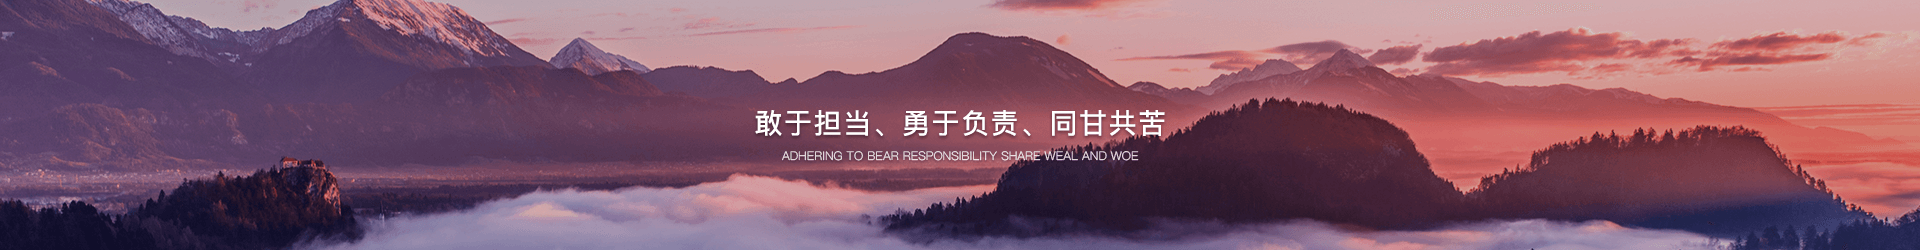
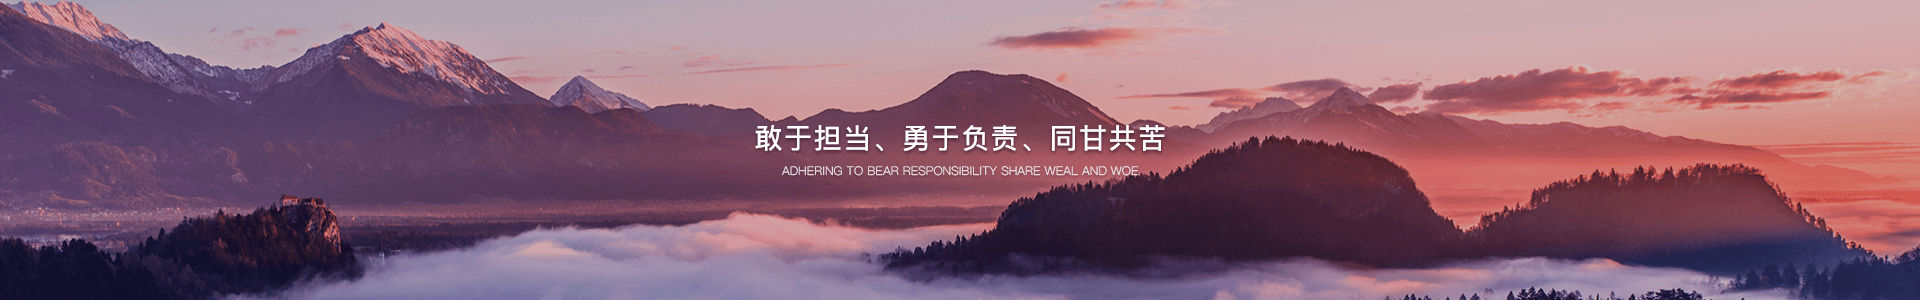
git-svn-id: https://39.108.144.9:8443/svn/nongkenweb@20 085fee2a-fcf7-b84f-be85-21284b92a9ce

diff --git a/nongken001(08.14)/index.html b/nongken001(08.14)/index.html
@@ -88,42 +88,42 @@
                     <div class="fb-figureCarousel-boxOverflow" style="width: 1150px; height: 220px; padding-bottom: 40px;">
                         <div class="fb-figureCarousel-box fb-position-relative" id="index-new" >
                             <div class="fb-figureCarousel-item fb-float-left" >
-                                <a href="news-detail.html"><img src="images/news01.jpg" alt="" >
+                                <a href="news.html"><img src="images/news01.jpg" alt="" >
                                     <p>集团要闻</p>
                                 </a>
                             </div>
                             <div class="fb-figureCarousel-item fb-float-left">
-                                <a href="news-detail.html"><img src="images/news02.jpg" alt="">
+                                <a href="news.html"><img src="images/news02.jpg" alt="">
                                     <p>垦区与产业集团</p>
                                 </a>
                             </div>
                             <div class="fb-figureCarousel-item fb-float-left">
-                                <a href="news-detail.html"><img src="images/news03.jpg" alt="">
+                                <a href="news.html"><img src="images/news03.jpg" alt="">
                                     <p>现代农业发展</p>
                                 </a>
                             </div>
                             <div class="fb-figureCarousel-item fb-float-left">
-                                <a href="news-detail.html"><img src="images/news09.jpg" alt="">
+                                <a href="news.html"><img src="images/news09.jpg" alt="">
                                     <p>改革与创新</p>
                                 </a>
                             </div>
                             <div class="fb-figureCarousel-item fb-float-left">
-                                <a href="news-detail.html"><img src="images/news01.jpg" alt="">
+                                <a href="news.html"><img src="images/news01.jpg" alt="">
                                     <p>集团要闻</p>
                                 </a>
                             </div>
                             <div class="fb-figureCarousel-item fb-float-left">
-                                <a href="news-detail.html"><img src="images/news02.jpg" alt="">
+                                <a href="news.html"><img src="images/news02.jpg" alt="">
                                     <p>垦区与产业集团</p>
                                 </a>
                             </div>
                             <div class="fb-figureCarousel-item fb-float-left">
-                                <a href="news-detail.html"><img src="images/news03.jpg" alt="">
+                                <a href="news.html"><img src="images/news03.jpg" alt="">
                                     <p>现代农业发展</p>
                                 </a>
                             </div>
                             <div class="fb-figureCarousel-item fb-float-left">
-                                <a href="news-detail.html"><img src="images/news09.jpg" alt="">
+                                <a href="news.html"><img src="images/news09.jpg" alt="">
                                     <p>改革与创新</p>
                                 </a>
                             </div>
@@ -219,7 +219,7 @@
                  <div class="title">
                         <p>名优特产品<span>  PRODUCT</span></p>
                 </div>  
-                <div class="fb-seamlessScrolling">
+                <div class="fb-seamlessScrolling fb-size">
                     <div class="fb-seamlessScrolling-overflow fb-position-relative">
                         <div class="fb-seamlessScrolling-item fb-float-left"><img src="images/news05.png" alt=""></div>
                         <div class="fb-seamlessScrolling-item fb-float-left"><img src="images/news10.jpg" alt=""></div>
@@ -246,22 +246,22 @@
     <div class="footer min-w1200">
         <div class="w1200 fb-center">
             <div class="flogo fb-inlineBlock">
-                <img src="images/flogo.png" alt="">
+               <div class="bg-logo"></div>
             </div>
             <div class="footerBox fb-inlineBlock">
+                <dl class="footerHref">
+                    <dd class="fb-float-left"><a href="">驻穗直属各企业</a></dd>
+                    <dd class="fb-float-left">|</dd>
+                    <dd class="fb-float-left"><a href="">二级集团公司</a></dd>
+                    <dd class="fb-float-left">|</dd>
+                    <dd class="fb-float-left"><a href="">兄弟垦区</a></dd>
+                </dl>
                 <dl class="footerHref">
                     <dd class="fb-float-left"><a href="">联系我们</a></dd>
                     <dd class="fb-float-left">|</dd>
                     <dd class="fb-float-left"><a href="">广东农垦站群</a></dd>
                     <dd class="fb-float-left">|</dd>
                     <dd class="fb-float-left"><a href="">网站地图</a></dd>
-                </dl>
-                <dl class="footerHref">
-                    <dd class="fb-float-left"><a href="">兄弟垦区</a></dd>
-                    <dd class="fb-float-left">|</dd>
-                    <dd class="fb-float-left"><a href="">二级集团公司</a></dd>
-                    <dd class="fb-float-left">|</dd>
-                    <dd class="fb-float-left"><a href="">驻穗直属各企业</a></dd>
                 </dl>
                 <dl class="footerHref">
                 	    <dd class="fb-float-left">版权所有</dd>

diff --git a/nongken001(08.14)/css/css.css b/nongken001(08.14)/css/css.css
@@ -8,23 +8,26 @@
 .header .nav{line-height: 100px;}
 .header .nav li{margin:0 20px;font-size: 18px;}
 .header .nav li a{color: #555555;}
-.header .nav li.active a{color: #3c824e;}
-.header .nav li:hover a{color: #3c824e;}
+.header .nav li.active a{color: #10ac5f;}
+.header .nav li:hover a{color: #10ac5f;}
 
 .footer{height: 180px;background: #334e64;}
 .footer .flogo{width: 60px;height: 70px;vertical-align: top;margin-right: 100px;padding-top: 55px;}
+.bg-logo{background: url(../images/flogo.png);width: 61px;height: 69px;}
+.bg-logo:hover{background: url(../images/flogo2.png);}
 .footer .footerBox{vertical-align: top;padding-top: 30px;}
-.footer .footerBox a:hover{color: #3c824e}
+.footer .footerBox a:hover{color: #10ac5f}
 
-.footer .footerHref{width: 450px; height: 40px;}
+.footer .footerHref{width: 500px; height: 40px;}
 .footer .footerHref dd{color: #fff;font-size: 16px;margin:0 10px;line-height: 40px;}
 .footer .footerHref dd a{color: #fff;}
+.footer .footerHref dd:nth-of-type(1){width: 112px;}
 .footer  .copy{color: #fff;font-size: 16px;margin:0 10px;line-height: 40px;}
 
 .title{padding: 25px 0;}
 .title p{font-size: 26px;color: #333333;}
 .title span{font-size: 16px;color: #999999;}
-.c-title{padding: 10px 0 10px 40px;border-bottom: 1px solid #3c824e;}
+.c-title{padding: 10px 0 10px 40px;border-bottom: 1px solid #10ac5f;}
 .c-title p{font-size: 18px;color: #333333;}
 /*.c-title span{font-size: 16px;color: #999999;}*/
 /*首页*/
@@ -56,12 +59,12 @@
 .news-a .news-a-con .test .test-con{font-size: 16px;color: #999999;line-height: 25px;height: 75px;overflow: hidden;}
 .news-a .news-a-button{text-align: center;}
 .news-a .news-a-button .news-a-button-item{width:16px;height: 16px;background: #dddddd;margin:0 4px;cursor: pointer;}
-.news-a .news-a-button .news-a-button-item.active{background: #3c824e;}
+.news-a .news-a-button .news-a-button-item.active{background: #10ac5f;}
 
 .news-b{width: 580px;height: 410px;background: #fafafa;}
 .news-b .news-b-tab{padding: 40px 40px 0 40px;text-align: center;}
 .news-b .news-b-tab .news-tab-item{width: 124px;height: 32px;font-size: 16px;color: #999999;line-height: 32px;cursor: pointer;position: relative;}
-.news-b .news-b-tab .news-tab-item.active{background: #3c824e;color: #fff;}
+.news-b .news-b-tab .news-tab-item.active{background: #10ac5f;color: #fff;}
 .news-b .news-b-tab .news-tab-item.active:after{content: "";position: absolute;width: 16px;height: 8px;background: url("../images/tag.png") no-repeat center;bottom:-8px;left:50%;margin-left: -8px;}
 .news-b .news-b-con{padding: 0 40px 0 40px}
 .news-b .news-b-item{display: none;}
@@ -75,7 +78,7 @@
 .news-b .news-b-list a{color: #555555;display: block;}
 .news-b .news-b-list li:hover a{color: #999999;}
 .news-b .news-b-con .more{text-align: right;}
-.news-b .news-b-con .more a{color: #3c824e;font-size: 16px;}
+.news-b .news-b-con .more a{color: #10ac5f;font-size: 16px;}
 .news-b .news-b-con .more a:hover{text-decoration: underline;}
 
 /*about*/
@@ -87,6 +90,7 @@
 
 /*宣传大图*/
 .fb-seamlessScrolling{margin:0 0 60px 0;}
+
 
 /*新闻详情*/
 .news-detail{padding: 40px 0;}
@@ -137,11 +141,6 @@
 .interval{ width: 100%;height: 25px; background: #3c824e;  }
 .fb-seamlessScrolling .fb-seamlessScrolling-item{}
 .photo_bg{ width: 100%; background: #d3d6d2; height: 250px;  }
-.photoShow{ width: 1200px; margin: 0 auto; }
-#link li{  width: 200px; text-align: center; float: left;}
+.photoShow{ width: 1300px; margin: 0 auto; }
+.fb-size{width: 1300px !important;}
 
-#link{ width: 1200px; overflow: hidden; margin-top: 15px; margin: 0 auto;color: #FFF; font-size: 15px;text-align: center;}
-#link a{color: #FFF; margin:0 auto;}
-#link a:hover{color: #3c824e}
-.link-2{margin:30px 200px;}
-.link-2 li{ width: 240px; margin-left: 50px; height: 20px; margin-bottom: 5px;float: left;}

diff --git a/nongken001(08.14)/news.html b/nongken001(08.14)/news.html
@@ -295,18 +295,18 @@
             </div>
             <div class="footerBox fb-inlineBlock">
                 <dl class="footerHref">
+                    <dd class="fb-float-left"><a href="">驻穗直属各企业</a></dd>
+                    <dd class="fb-float-left">|</dd>
+                    <dd class="fb-float-left"><a href="">二级集团公司</a></dd>
+                    <dd class="fb-float-left">|</dd>
+                    <dd class="fb-float-left"><a href="">兄弟垦区</a></dd>
+                </dl>
+                <dl class="footerHref">
                     <dd class="fb-float-left"><a href="">联系我们</a></dd>
                     <dd class="fb-float-left">|</dd>
                     <dd class="fb-float-left"><a href="">广东农垦站群</a></dd>
                     <dd class="fb-float-left">|</dd>
                     <dd class="fb-float-left"><a href="">网站地图</a></dd>
-                </dl>
-                <dl class="footerHref">
-                    <dd class="fb-float-left"><a href="">兄弟垦区</a></dd>
-                    <dd class="fb-float-left">|</dd>
-                    <dd class="fb-float-left"><a href="">二级集团公司</a></dd>
-                    <dd class="fb-float-left">|</dd>
-                    <dd class="fb-float-left"><a href="">驻穗直属各企业</a></dd>
                 </dl>
                 <dl class="footerHref">
                         <dd class="fb-float-left">版权所有</dd>

diff --git a/nongken001(08.14)/about.html b/nongken001(08.14)/about.html
@@ -206,18 +206,18 @@
             </div>
            <div class="footerBox fb-inlineBlock">
                 <dl class="footerHref">
+                    <dd class="fb-float-left"><a href="">驻穗直属各企业</a></dd>
+                    <dd class="fb-float-left">|</dd>
+                    <dd class="fb-float-left"><a href="">二级集团公司</a></dd>
+                    <dd class="fb-float-left">|</dd>
+                    <dd class="fb-float-left"><a href="">兄弟垦区</a></dd>
+                </dl>
+                <dl class="footerHref">
                     <dd class="fb-float-left"><a href="">联系我们</a></dd>
                     <dd class="fb-float-left">|</dd>
                     <dd class="fb-float-left"><a href="">广东农垦站群</a></dd>
                     <dd class="fb-float-left">|</dd>
                     <dd class="fb-float-left"><a href="">网站地图</a></dd>
-                </dl>
-                <dl class="footerHref">
-                    <dd class="fb-float-left"><a href="">兄弟垦区</a></dd>
-                    <dd class="fb-float-left">|</dd>
-                    <dd class="fb-float-left"><a href="">二级集团公司</a></dd>
-                    <dd class="fb-float-left">|</dd>
-                    <dd class="fb-float-left"><a href="">驻穗直属各企业</a></dd>
                 </dl>
                 <dl class="footerHref">
                         <dd class="fb-float-left">版权所有</dd>

diff --git a/nongken001(08.14)/news-detail.html b/nongken001(08.14)/news-detail.html
@@ -97,18 +97,18 @@
             </div>
             <div class="footerBox fb-inlineBlock">
                 <dl class="footerHref">
+                    <dd class="fb-float-left"><a href="">驻穗直属各企业</a></dd>
+                    <dd class="fb-float-left">|</dd>
+                    <dd class="fb-float-left"><a href="">二级集团公司</a></dd>
+                    <dd class="fb-float-left">|</dd>
+                    <dd class="fb-float-left"><a href="">兄弟垦区</a></dd>
+                </dl>
+                <dl class="footerHref">
                     <dd class="fb-float-left"><a href="">联系我们</a></dd>
                     <dd class="fb-float-left">|</dd>
                     <dd class="fb-float-left"><a href="">广东农垦站群</a></dd>
                     <dd class="fb-float-left">|</dd>
                     <dd class="fb-float-left"><a href="">网站地图</a></dd>
-                </dl>
-                <dl class="footerHref">
-                    <dd class="fb-float-left"><a href="">兄弟垦区</a></dd>
-                    <dd class="fb-float-left">|</dd>
-                    <dd class="fb-float-left"><a href="">二级集团公司</a></dd>
-                    <dd class="fb-float-left">|</dd>
-                    <dd class="fb-float-left"><a href="">驻穗直属各企业</a></dd>
                 </dl>
                 <dl class="footerHref">
                         <dd class="fb-float-left">版权所有</dd>

diff --git a/nongken001(08.14)/css/main.css b/nongken001(08.14)/css/main.css
@@ -20,7 +20,7 @@
 }
 .news-banner {
 	width: 100%;
-	height: 200px;
+	height: 300px;
 	background: url('../images/about-banner.png') no-repeat center;
 }
 .news {
@@ -97,10 +97,10 @@
 	color: #999999;
 }
 .strategy li a:hover {
-	color: #3c824e;
+	color: #10ac5f;
 }
 .strategy li .strategy-act {
-	color: #3c824e;
+	color: #10ac5f;
 }
 .strategy-detail >li >h1{
  font-size: 32px;
@@ -166,7 +166,7 @@
 
 }
 .color-10ac5f {
-	color: #3c824e;
+	color: #10ac5f;
 }
 .news-item,
 .news-items2-item {
@@ -259,10 +259,10 @@
 	margin-top: 60px;
 }
 .page-ul li a:hover{
-	background: #3c824e;    color: #fff;
+	background: #10ac5f;    color: #fff;
 }
 .page-act {
-	background: #3c824e;    color: #fff!important;
+	background: #10ac5f;    color: #fff!important;
 }
 .aboutToptxt {
 	text-align: center;
